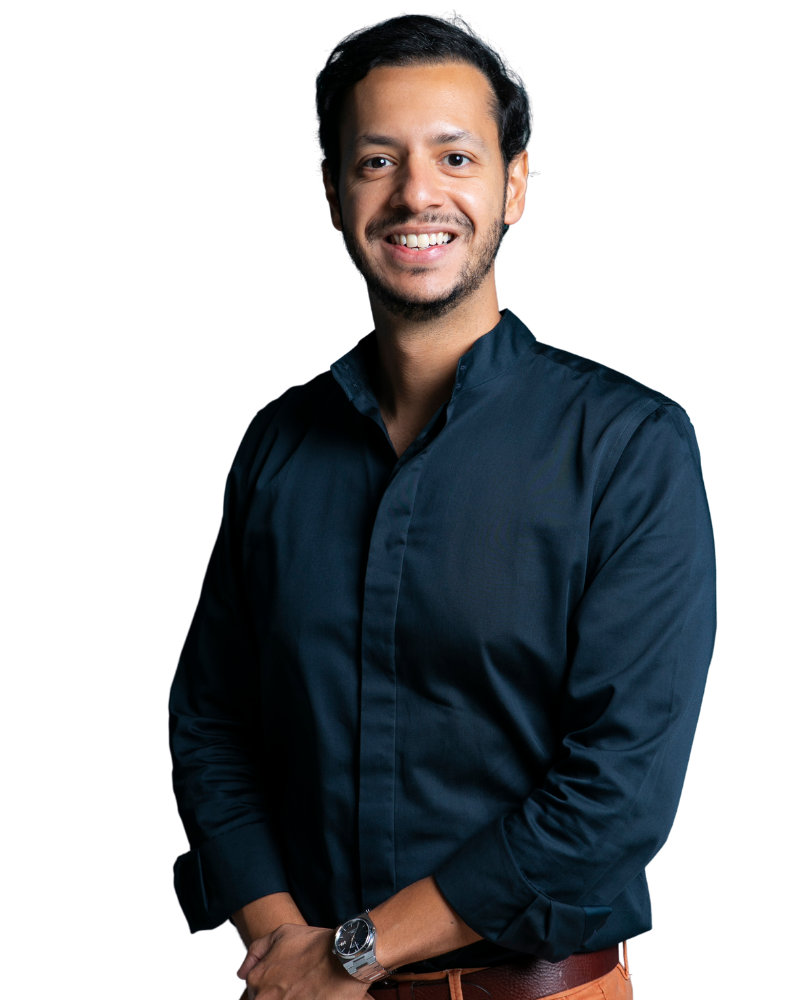
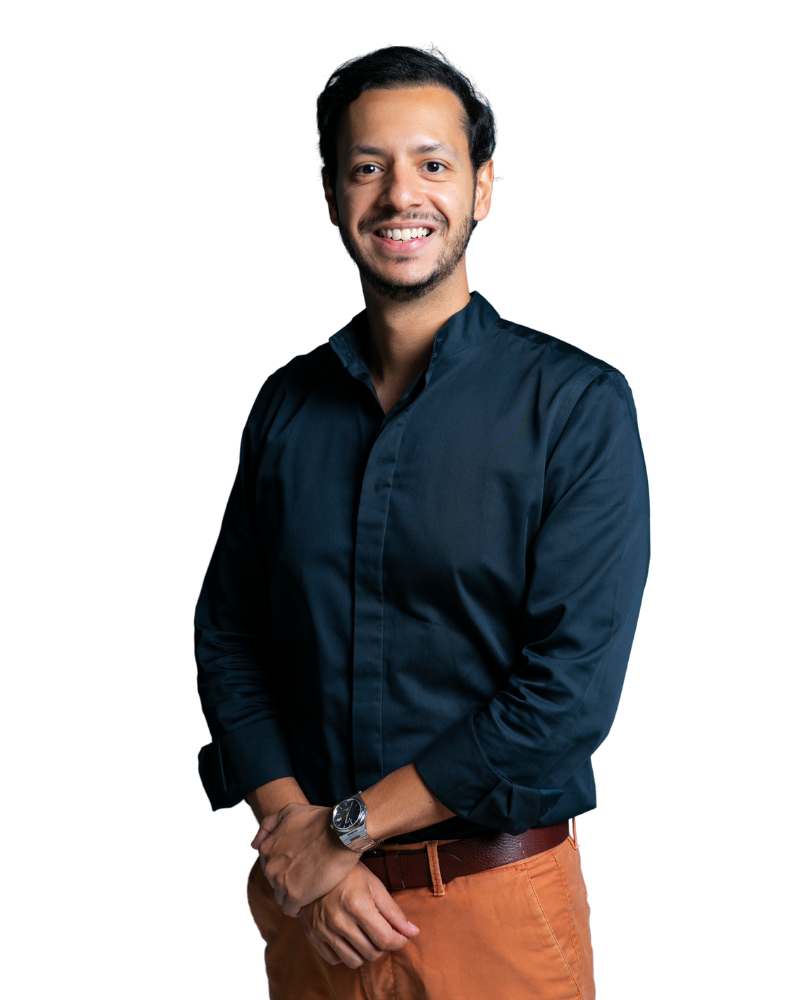
Update hero: new photo (full body, baseline-anchored), remove name badge, blue period on líderes.

diff --git a/app/sections-a.jsx b/app/sections-a.jsx
@@ -62,7 +62,7 @@ function Hero() {
             <Badge variant="neutral" size="sm">Palestras · Painéis · Workshops</Badge>
           </div>
           <h1 className="hero__title reveal">
-            Saúde e inovação<br />para <em className="hero__title-em">líderes</em>.
+            Saúde e inovação<br />para <em className="hero__title-em">líderes.</em>
           </h1>
           <p className="hero__lead reveal">
             Sou o Dr. Thiago Liguori, médico, PhD e Top Voice no LinkedIn. Levo
@@ -96,7 +96,6 @@ function Hero() {
 
         <div className="portrait portrait--cutout reveal">
           <div className="portrait__glow" />
-          <span className="portrait__name">Thiago Liguori, MD, PhD</span>
           <img className="portrait__img" src="assets/thiago-cutout.png" alt="Dr. Thiago Liguori" />
           <div className="portrait__badge">
             <Badge variant="brand" icon={<LinkedInGlyph />}>

diff --git a/app/site.css b/app/site.css
@@ -155,7 +155,7 @@ a { color: inherit; }
 }
 
 /* portrait */
-.portrait { position: relative; justify-self: center; width: 100%; max-width: 420px; }
+.portrait { position: relative; justify-self: center; width: 100%; max-width: 420px; align-self: flex-end; }
 .portrait__glow {
   position: absolute; inset: -10% -6% -4% -6%;
   background: radial-gradient(58% 56% at 56% 42%, var(--blue-300) 0%, rgba(126,169,230,0) 70%);